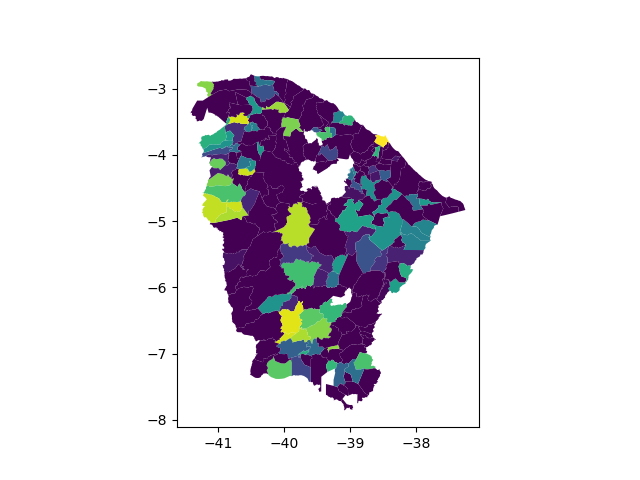
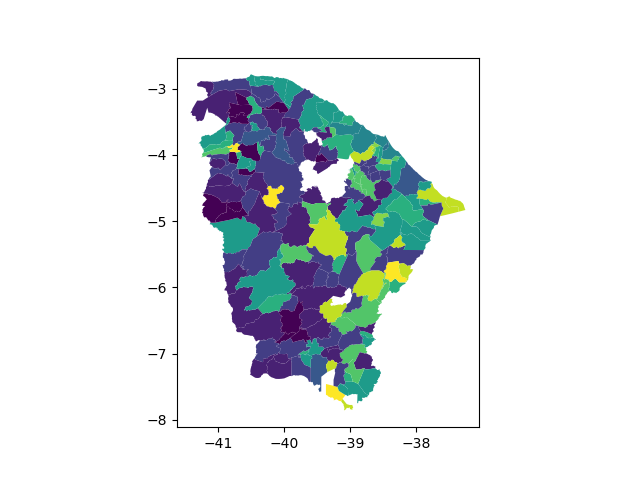
Update codes to new best algoritm for cluster

Changed region(s): [[0.2812, 0.1562, 0.75, 0.875]]

diff --git a/hierarchical_cluster/Affinity.py b/hierarchical_cluster/Affinity.py
@@ -1,38 +1,90 @@
 # Pacotes 
-from sklearn.cluster import OPTICS
+from sklearn.cluster import AffinityPropagation
 from sklearn.model_selection import GridSearchCV
 from data_treatment import *
-import plotly.express as px 
+from maps import *
+import pickle
 
-# Importandoo os dados 
+## Importandoo os dados 
 # Amostras de Treino e Teste  
 X_train, X_test = data().main()
 
 # Dataframe 
-dados = data().normalized(data().dataframe())[['Capacidade','Dependência_União','Dependência_Estado','IDH']]
-dados,rotulate = data.rotulate(1,dados,"IDH")
+dados = data().normalized(data().dataframe())
 
 # Estimando o modelo 
-params = {
-    'damping':[0.5,0.6,0.7,0.8,0.9]
+params ={
+    'damping': [0.6,0.7,0.8,0.9],
 }
 
 # Criando o modelo --> cross validation 
-model = AffinityPropagation() 
+model =  AffinityPropagation()
 
 # classificando --> cross validation 
 classifier = GridSearchCV(model,params,cv=5,scoring='f1')
 classifier.fit(X_train) 
 
-# Melhor modelo 
+# Melhor estimador 
 model = classifier.best_estimator_
 
-# Classificando os clusters 
-model.fit_predict(dados)
+# Classificando os clusters por diferentes anos 
+# Estatisticas descritivas 
+estatisticas = dict()
 
-# Criando os graficos 
-fig,axs = plt.subplots(3,1)
-axs[0].scatter(dados["Dependência_União"], dados["Capacidade"], c=labels_)
-axs[1].scatter(dados["Dependência_Estado"],dados["Capacidade"],c=labels_)
-axs[2].scatter(dados["Dependência_Estado"],dados["Dependência_União"],c=labels_)
-plt.show()
+# Filtrando as analises por ano 
+for ano in range(2013,2019):
+
+    # Criando o campo no dicionario por ano 
+    estatisticas[str(ano)] = dict()
+    
+    # Filtrando as tabelas por ano 
+    df = dados[dados['Ano']==ano]
+    ind = df[['Capacidade','Dependência_União','Dependência_Estado','IDH','Dependência_Estado_sus','Dependência_União_sus']]
+    ind,rotulate = data.rotulate(1,ind,"IDH")
+
+    # classificando os clusters 
+    model.fit_predict(ind)
+
+    # Salando as classificações no banco de dados  
+    df['Cluster'] = model.labels_
+
+    # Exportando os mapas 
+    maps(df,'Codigo',str(ano))
+
+    # Calculando estatisticas descritivas 
+    for classification in np.unique(df['Cluster']):
+
+       # Criando a chave por classificação 
+        estatisticas[str(ano)][str(classification)] = dict()
+        
+        # Filtrando por nivel de cluster 
+        local = df[df['Cluster']==classification] 
+
+        # Contagem de municipios    
+        estatisticas[str(ano)][str(classification)]['Contagem'] = len(local)
+
+        # Municipios 
+        estatisticas[str(ano)][str(classification)]['Municipios'] =list(np.unique(local['Municipio']))
+
+        # Media dos indicadores 
+        for indicador in ['Capacidade','Dependência_Estado','Dependência_União','produto_interno_bruto']:
+
+            # Criando o dicionario para os indicadores 
+            estatisticas[str(ano)][str(classification)][str(indicador)]  = dict()
+
+            # Media do indicador
+            estatisticas[str(ano)][str(classification)][str(indicador)]['Media'] = np.mean(local[indicador])
+
+            # Desvio Padrão 
+            estatisticas[str(ano)][str(classification)][str(indicador)]['Desvio Padrão'] = np.std(local[indicador])
+
+            # quartis 
+            estatisticas[str(ano)][str(classification)][str(indicador)]['Quartis'] = [np.quantile(local[indicador], q=0.25),np.quantile(local[indicador], q=0.5),np.quantile(local[indicador], q=0.75)]    
+
+            # Maximo 
+            estatisticas[str(ano)][str(classification)][str(indicador)]['Maximo'] = max(local[indicador])
+
+            # Minimo 
+            estatisticas[str(ano)][str(classification)][str(indicador)]['Minimo'] = min(local[indicador])
+
+

diff --git a/hierarchical_cluster/excel_export.py b/hierarchical_cluster/excel_export.py
@@ -1,0 +1,44 @@
+# Pacotes 
+import xlsxwriter
+
+# Criando funções de 
+def export(dicionario:dict,table:str):
+
+    # Definindo o conjunto de colunas utilizada 
+    col = ['A','B','C','D','E','F','G','H','I','J']
+    # Definindo a tabela para exportação
+    workbook = xlsxwriter.Workbook(table + '.xlsx')
+       
+    # Criando o formato do titulo da tabela  
+    estatitica_format = workbook.add_format({'bold': 1,'border': 1,'align': 'center','valign': 'vcenter','fg_color': 'yellow'}) # Estatisticas 
+    free_format = workbook.add_format({'bold': 1,'border': 0,'align': 'right' ,'valign': 'vcenter','fg_color': 'blue'}) # Celulas Livres
+    
+    # Criando as planilhas 
+    for ano in dicionario.keys():
+
+        # Criando a planilha na tabela
+        worksheet = workbook.add_worksheet(str(ano))
+        
+        # Separando por clusters as tabelas 
+        for cluster in dicionario[ano].keys():
+            
+            # Tabela 1 - Municipios             
+            # Criando o corpo da tabela
+            for count,mun in enumerate(dicionario[ano][cluster]['Municipios']):
+                
+                # Coluna e linha
+                col = 0 
+                lin = 3
+                print(col,lin)
+                # Criando as posições de cada informação
+                if count % 5 != 0: 
+
+                    # Adicionando a informação 
+                    worksheet.write(lin,col,mun)
+                    lin +=1 
+                
+                else:
+                    col +=1
+                    lin = 3
+                    worksheet.write(lin,col,mun)
+                    lin+=1

diff --git a/hierarchical_cluster/metricas.py b/hierarchical_cluster/metricas.py
@@ -1,6 +1,7 @@
 # Pacotes
-from sklearn.metrics import adjusted_mutual_info_score, adjusted_rand_score, completeness_score, fowlkes_mallows_score, homogeneity_score, mutual_info_score, normalized_mutual_info_score, rand_score, v_measure_score, f1_score, precision_score, recall_score
+from sklearn.metrics import completeness_score, fowlkes_mallows_score, homogeneity_score, adjusted_mutual_info_score, adjusted_rand_score, silhouette_score , calinski_harabasz_score, davies_bouldin_score
 from clusters import *
+#from sklearn.metrics.cluster import contingency_matrix
 from data_treatment import data
 import pandas as pd 
 from spyder_chart import *
@@ -14,14 +15,14 @@ X_train, X_test = data().main()
 
 # Valores previstos 
 Forecast = {
-    'Metrica':['completeness_score', 'fowlkes_mallows_score', 'mutual_info_score','rand_score'],
+    'Metrica':['completeness_score', 'fowlkes_mallows_score', 'homogeneity_score','adjusted_mutual_info_score','rand_score', 'silhouette_score' , 'calinski_harabasz_score', 'davies_bouldin_score'],
     'Agglomerative': [], 'Spectral':[], 'Optics':[], 'Meanshift':[], 'BIRCH':[], 'Dbscan':[], 'Affinity':[],'Kmeans':[]
     }
 
 # Computando as metricas
 for method in [Agglomerative,Spectral,Optics,Meanshift,BIRCH,Dbscan,Affinity,Kmeans]:    
     X_pred = method(X_train, X_test)
-    for metrics in [completeness_score, fowlkes_mallows_score,normalized_mutual_info_score,adjusted_rand_score]:
+    for metrics in [completeness_score, fowlkes_mallows_score, homogeneity_score, adjusted_mutual_info_score, adjusted_rand_score]:
         Forecast[method.__name__].append(metrics(X_test.values.T[0],X_pred))
 
 

diff --git a/hierarchical_cluster/optics.py b/hierarchical_cluster/optics.py
@@ -41,7 +41,7 @@ for ano in range(2013,2019):
     
     # Filtrando as tabelas por ano 
     df = dados[dados['Ano']==ano]
-    ind = df[[['Capacidade','Dependência_União','Dependência_Estado','IDH','Dependência_Estado_sus','Dependência_União_sus']]
+    ind = df[['Capacidade','Dependência_União','Dependência_Estado','IDH','Dependência_Estado_sus','Dependência_União_sus']]
     ind,rotulate = data.rotulate(1,ind,"IDH")
 
     # classificando os clusters 
